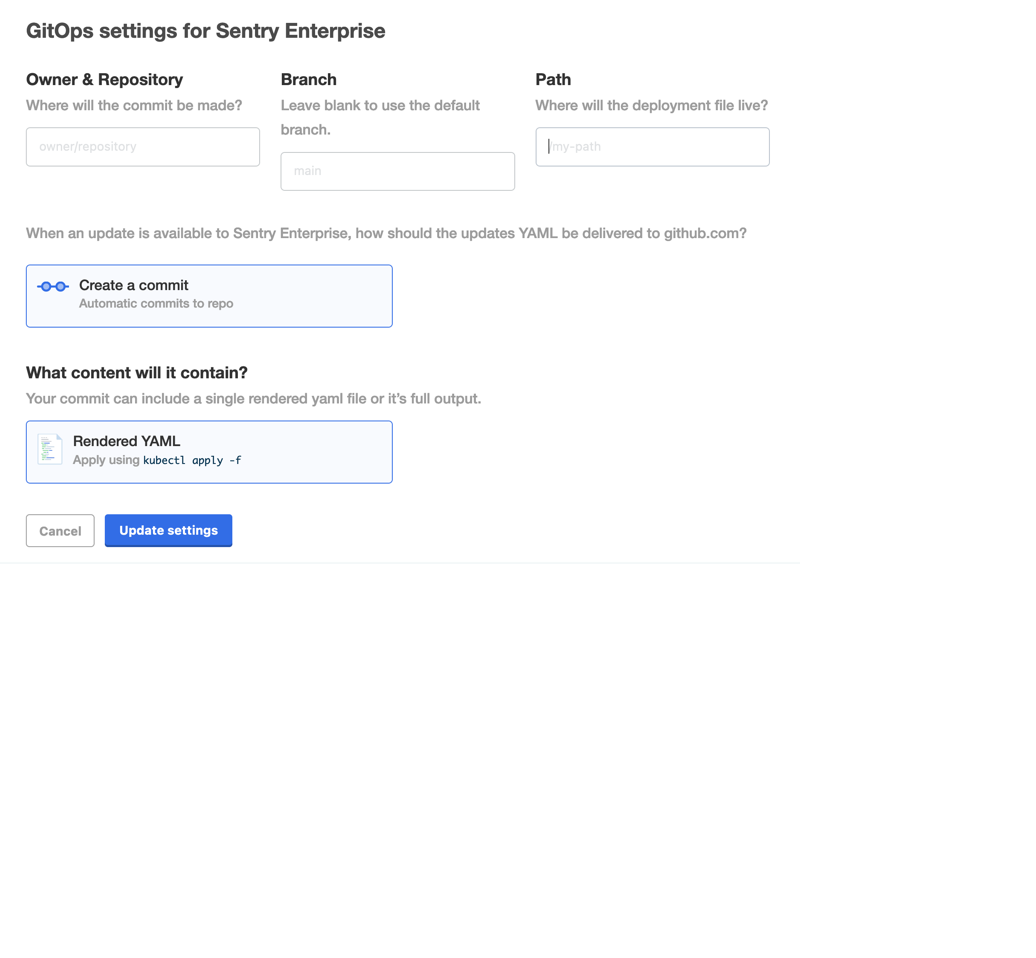
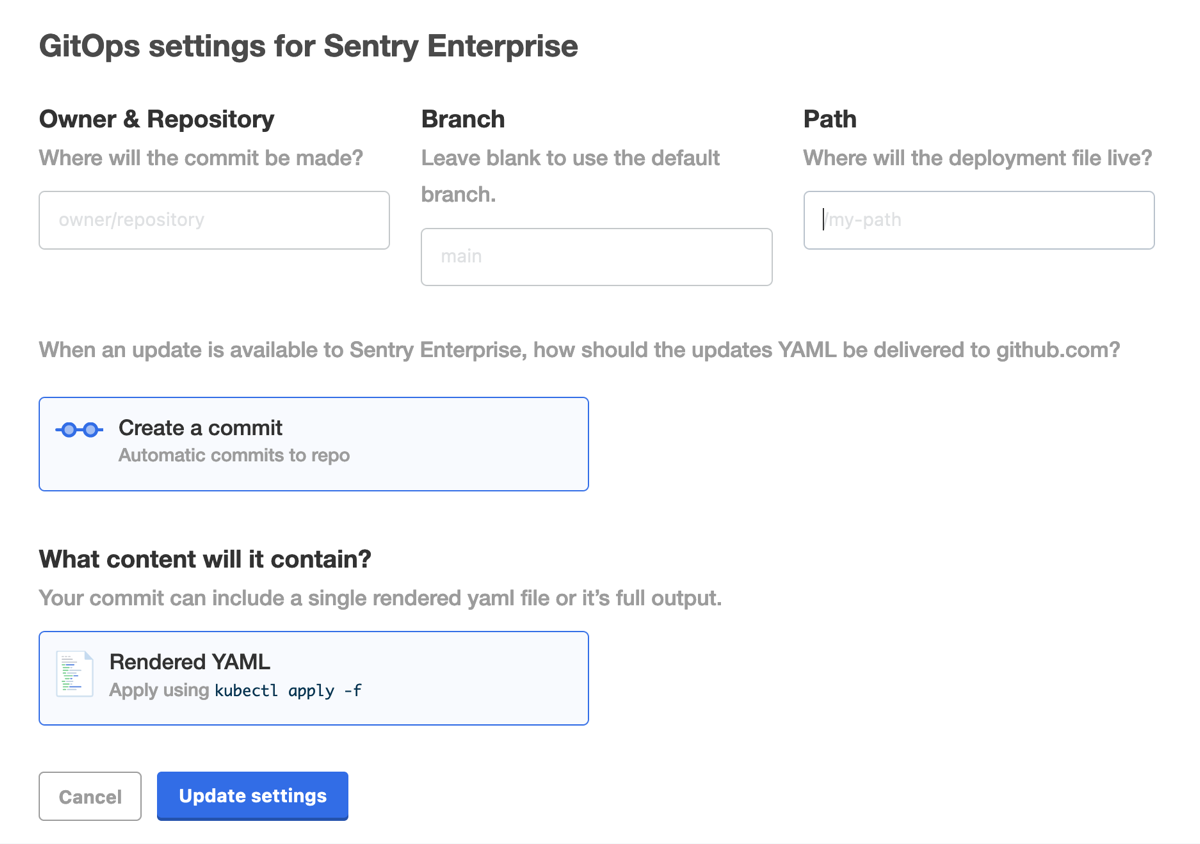
Edits

diff --git a/content/kotsadm/gitops/multi-app-workflows.md b/content/kotsadm/gitops/multi-app-workflows.md
@@ -28,7 +28,7 @@ The Admin Console can create a new commit to the branch specified.
 On this screen, there's an option to choose what type of asset to deliver to the git repo.
 Selecting "Rendered YAML" will result in a single, multi-doc YAML file being committed to the repo.
 
-![GitOps Action](/images/gitops-action.png)
+![GitOps Action](/images/gitops-action-new-multi.png)
 
 Once GitOps is set up, the "GitOps" tab will contain a public deploy key.
 The private key will be stored securely in the Admin Console.
